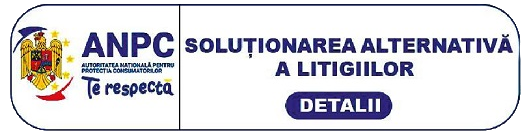
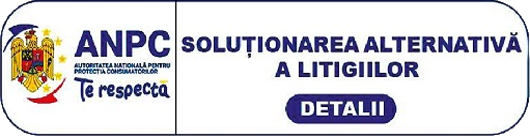
feat: download app CTA, hero mobile positioning, footer improvements
## New Features
- Added 'Download App' glassmorphism pill button below TravelSearchWidget in homepage hero
  - Smart UA detection: Android  Play Store, iOS  App Store, desktop  chillsim.net/download
  - Apple + Google Play SVG icons inline
  - Added home.downloadApp.button translation key to all 6 locales (EN: 'Download App', DE: 'Herunterladen', ES: 'Descargar', FR: 'Télécharger', HI: 'डउनलड कर', RO: 'Descarcă')
- Added new googlePlay.svg to public/media/

## Hero Background
- Hero images now support per-image mobile background-position
  - Converted heroBackgrounds array from strings to objects with src + mobilePosition
  - Added useMediaQuery to apply mobile-specific focal point shift
  - home_shutterstock_424964827.jpg set to 70% center on mobile

## Footer
- Footer bottom links now stack vertically on mobile (flex-col on mobile, flex-row on md+)
- RO locale ANPC images: both now use w-40 for consistent equal width
- Added ANAT logo (anat.png) to RO footer alongside existing ANPC SAL and SOL images
- Updated ANPC image files (anpc-sal.png, anpc-sol.png) with new versions

## Bug Fixes
- SmartAppBanner: DEV_MODE_FORCE_SHOW reset to false (was accidentally left true)
- TravelSearchWidget search header: centered with justify-center
- Updated media assets: esim.png, esimAutoTopUp.png, esimTopUp.png refreshed

diff --git a/src/components/home/HomePageTemplate.jsx b/src/components/home/HomePageTemplate.jsx
@@ -14,7 +14,7 @@ import PopularDestinations from "../popular-destinations/PopularDestinations";
 import { useHomeCountries } from "../../core/custom-hook/useHomeCountries";
 import { getBundlesByCountry } from "../../core/apis/homeAPI";
 //MUI
-import { CircularProgress, Typography, Button, Switch } from "@mui/material";
+import { CircularProgress, Typography, Button, Switch, useMediaQuery } from "@mui/material";
 import ArrowBackIcon from "@mui/icons-material/ArrowBack";
 import KeyboardArrowDownIcon from "@mui/icons-material/KeyboardArrowDown";
 
@@ -306,14 +306,17 @@ const HomePageTemplate = ({
     setSelectedBundle(null);
   }, []);
 
+  const isMobile = useMediaQuery("(max-width: 768px)");
+
   // Random hero background image
   const heroBackgrounds = useMemo(() => [
-    "/images/backgrounds/home_shutterstock_1939831561.jpg",
-    "/images/backgrounds/home_shutterstock_2620973827.jpg",
-    "/images/backgrounds/home_shutterstock_424964827.jpg",
+    // desktopPosition defaults to "center", mobilePosition shifts focal point on small screens
+    { src: "/images/backgrounds/home_shutterstock_1939831561.jpg", mobilePosition: "center" },
+    { src: "/images/backgrounds/home_shutterstock_2620973827.jpg", mobilePosition: "center" },
+    { src: "/images/backgrounds/home_shutterstock_424964827.jpg",  mobilePosition: "70% center" },
   ], []);
 
-  const [heroImage] = useState(() => 
+  const [heroImageObj] = useState(() =>
     heroBackgrounds[Math.floor(Math.random() * heroBackgrounds.length)]
   );
 
@@ -323,9 +326,10 @@ const HomePageTemplate = ({
       <section className="relative h-screen w-full overflow-hidden">
         {/* Background Image */}
         <div
-          className="absolute inset-0 bg-cover bg-center scale-105"
+          className="absolute inset-0 bg-cover scale-105"
           style={{
-            backgroundImage: `url(${heroImage})`,
+            backgroundImage: `url(${heroImageObj.src})`,
+            backgroundPosition: isMobile ? heroImageObj.mobilePosition : "center",
           }}
         >
           <div className="absolute inset-0 bg-gradient-to-b from-black/60 via-black/40 to-black/70" />
@@ -370,6 +374,32 @@ const HomePageTemplate = ({
               setSelectedDuration={setSelectedDuration}
               onSearch={handleSearch}
             />
+            {/* Download App Button */}
+            <div className="mt-12 flex justify-center">
+              <button
+                onClick={() => {
+                  const ua = navigator.userAgent || "";
+                  if (/android/i.test(ua)) {
+                    window.location.href = "https://play.google.com/store/apps/details?id=zaheen.esim.chillsim";
+                  } else if (/iphone|ipad|ipod/i.test(ua)) {
+                    window.location.href = "https://apps.apple.com/us/app/chillsim-travel-esim/id6747967151";
+                  } else {
+                    window.open("https://chillsim.net/download", "_blank");
+                  }
+                }}
+                className="inline-flex items-center gap-2 px-5 py-2.5 rounded-full text-sm font-semibold text-white whitespace-nowrap transition-all hover:scale-105 active:scale-95"
+                style={{
+                  background: "rgba(255,255,255,0.15)",
+                  backdropFilter: "blur(8px)",
+                  WebkitBackdropFilter: "blur(8px)",
+                  border: "1px solid rgba(255,255,255,0.3)",
+                }}
+              >
+                <img src="/media/apple.svg" alt="" style={{ width: 18, height: 18 }} />
+                <img src="/media/googlePlay.svg" alt="" style={{ width: 18, height: 18 }} />
+                {t("home.downloadApp.button")}
+              </button>
+            </div>
           </div>
         </div>
 

diff --git a/src/components/layout/Footer.jsx b/src/components/layout/Footer.jsx
@@ -83,33 +83,40 @@ const Footer = () => {
             </a>
           </div>
 
-          {i18n.language === "ro" && ( <div className="text-center">
-              <div className="flex justify-center">
-                <a 
-                  href="https://anpc.ro/ce-este-sal/"
-                  target="_blank"
-                  rel="noopener noreferrer"
-                >
-                  <img
-                    src="/images/anpc-sal.png"
-                    alt="Logo ANPC"
-                    className="max-h-10 object-contain"
-                  />
-                </a>
-              </div>
-              <div className="flex justify-center"> 
-                <a
-                  href="https://ec.europa.eu/consumers/odr"
-                  target="_blank"
-                  rel="noopener noreferrer"
-                >
-                  <img
-                    src="/images/anpc-sol.png"
-                    alt="Logo ANPC"
-                    className="max-h-12 object-contain"
-                  />
-                </a>
-              </div>
+          {i18n.language === "ro" && ( <div className="text-center flex flex-col items-center gap-2">
+              <a 
+                href="https://anpc.ro/ce-este-sal/"
+                target="_blank"
+                rel="noopener noreferrer"
+              >
+                <img
+                  src="/images/anpc-sal.png"
+                  alt="Logo ANPC"
+                  className="w-40 object-contain"
+                />
+              </a>
+              <a
+                href="https://ec.europa.eu/consumers/odr"
+                target="_blank"
+                rel="noopener noreferrer"
+              >
+                <img
+                  src="/images/anpc-sol.png"
+                  alt="Logo ANPC"
+                  className="w-40 object-contain"
+                />
+              </a>
+              <a 
+                href="https://www.anat.ro/"
+                target="_blank"
+                rel="noopener noreferrer"
+              >
+                <img
+                  src="/images/anat.png"
+                  alt="Logo ANAT"
+                  className="w-40 object-contain"
+                />
+              </a>
           </div>)}
 
 
@@ -118,7 +125,7 @@ const Footer = () => {
         {/* Bottom Links */}
         <div className=" pt-2 border-t border-white">
           <div className="flex flex-col md:flex-row items-center justify-between">
-            <div className="flex items-center space-x-6 mb-4 gap-2 md:mb-0">
+            <div className="flex flex-col items-center md:flex-row md:items-center md:space-x-4 gap-2 mb-4 md:mb-0">
               <Link
                 to={"/privacy"}
                 onClick={() => handleNavigation()}

diff --git a/src/components/home/TravelSearchWidget.jsx b/src/components/home/TravelSearchWidget.jsx
@@ -65,7 +65,7 @@ const TravelSearchWidget = ({
       }}
     >
       {/* Search Header */}
-      <div className="flex items-center gap-2 mb-4">
+      <div className="flex items-center gap-2 mb-4 text-center justify-center">
         <Wifi className="text-white" />
         <h3 className="text-lg font-semibold text-white">
           {t("home.search.title")}
